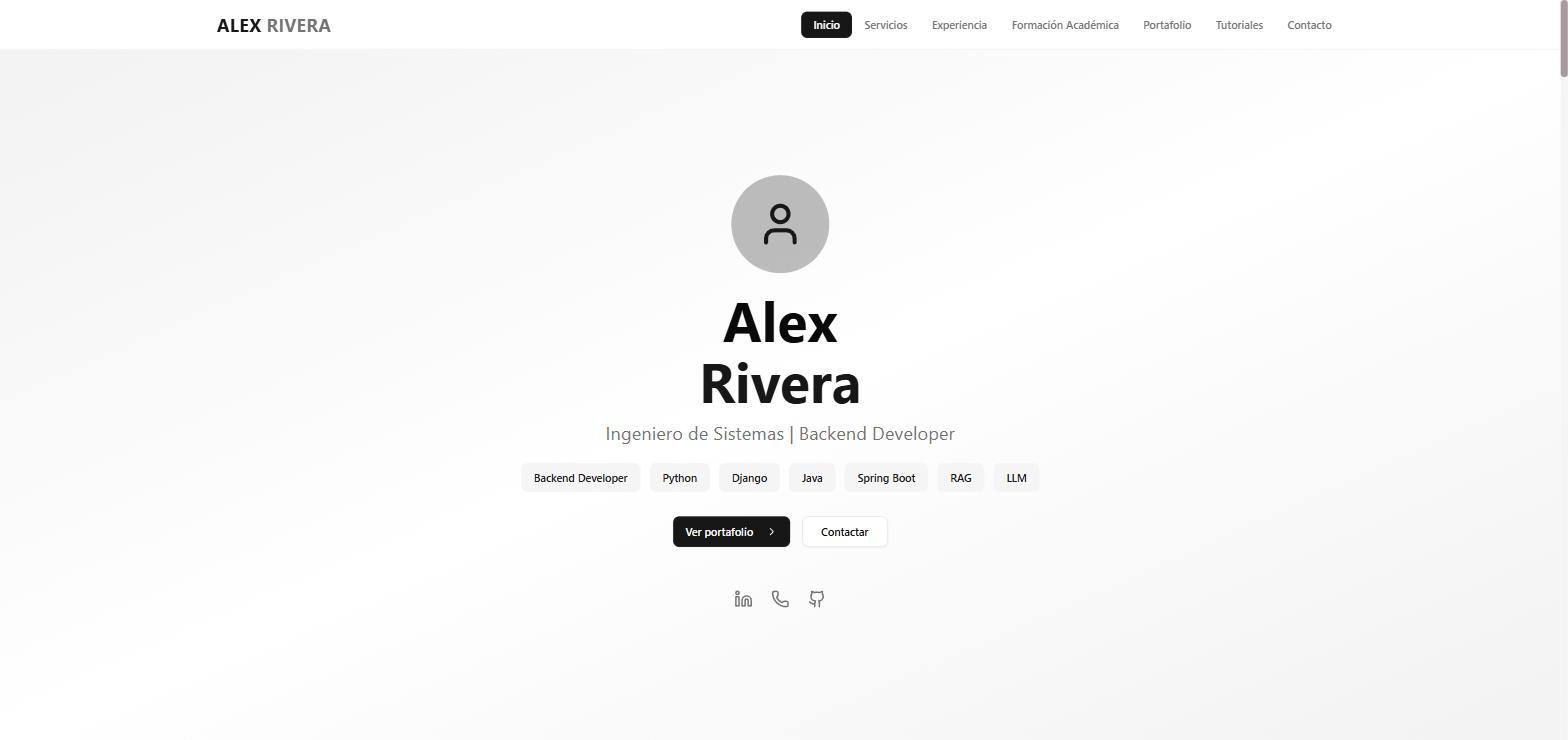
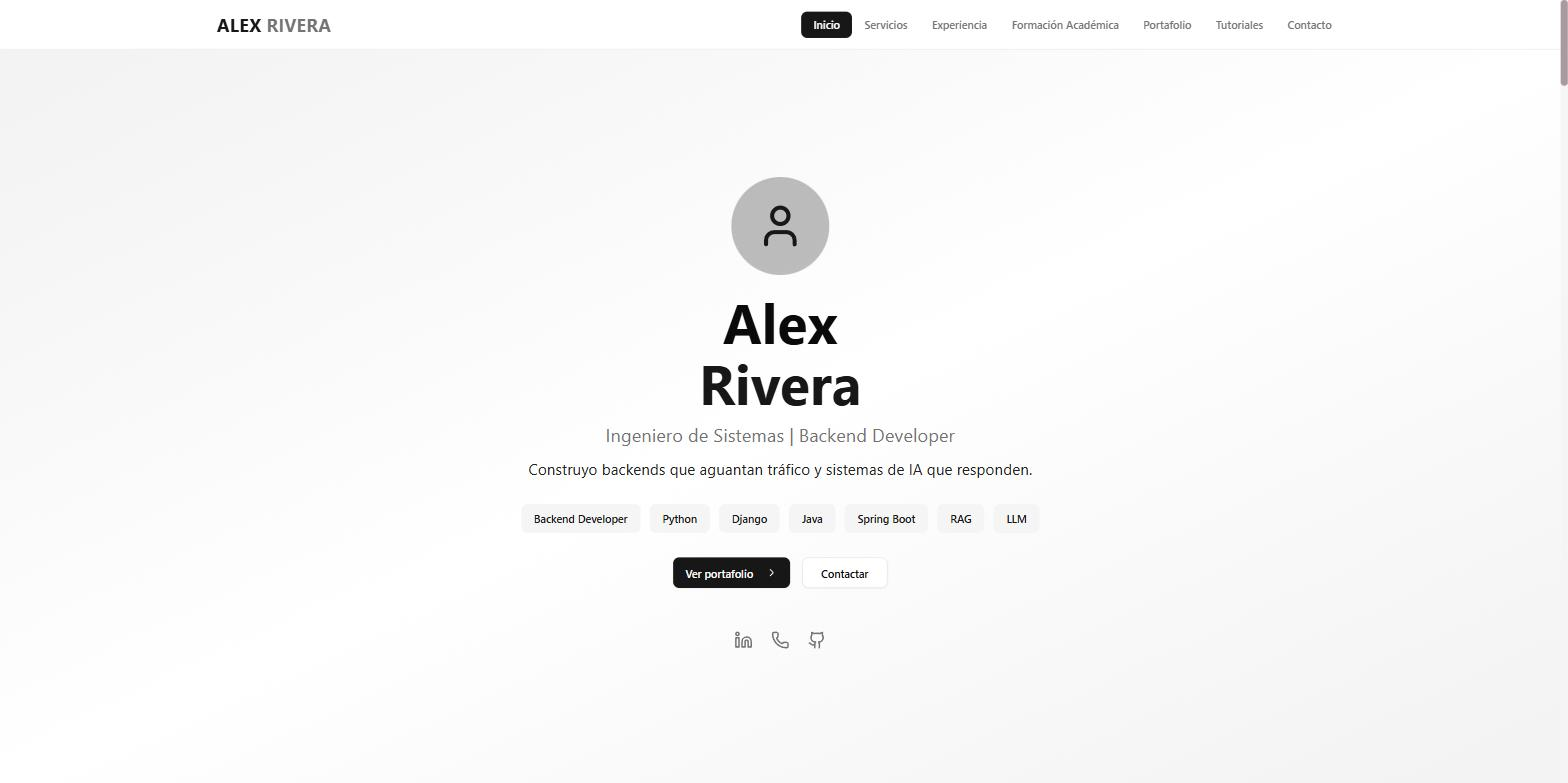
fix: pintar el headline, limpiar scripts que no aplican y añadir licencia MIT
Los tres hallazgos de código que dejó fuera la revisión de documentación, más
la licencia.

- `Profile.headline` estaba en el esquema y en el seed desde el PR #23, pero
  `grep headline src/` daba cero: no se renderizaba en ninguna parte. El hero lo
  pinta ahora bajo el cargo, que es para lo que se añadió ("titular del hero:
  frase con verbo, no el cargo", según el propio comentario del esquema). El
  perfil de reserva también lo trae, para que la home sin base de datos no
  pierda el titular. Se rehace la captura de portada del README, que ya no
  coincidía.
- `package.json` exponía `db:migrate` y `db:reset` sin que exista
  `prisma/migrations/`: el proyecto usa `db push`. `db:reset` además dropea la
  base entera, y aquí la base es compartida. Se eliminan los dos.
- `start` usaba `NODE_ENV=production bun ...`, sintaxis POSIX que falla en
  PowerShell, y arrancaba un build standalone que nadie ejecuta: el despliegue
  es Vercel. Se elimina el script y `output: "standalone"` de next.config, que
  solo sirve para self-hosting. `next start` queda funcionando sin el aviso de
  incompatibilidad.
- `dev:log` era un duplicado exacto de `dev` con un nombre que promete algo que
  no hace.
- LICENSE MIT, a nombre del usuario de GitHub para no reintroducir el nombre
  real en el repositorio, y la sección del README apuntando al archivo.

diff --git a/src/components/portafolio/HeroSection.tsx b/src/components/portafolio/HeroSection.tsx
@@ -16,6 +16,7 @@ const socialLinkClass =
 export function HeroSection({ profile }: HeroSectionProps) {
   const firstName = profile?.firstName ?? FALLBACK_PROFILE.firstName;
   const lastName = profile?.lastName ?? FALLBACK_PROFILE.lastName;
+  const headline = profile?.headline?.trim();
   const whatsappLink = buildWhatsappLink(profile);
 
   return (
@@ -49,9 +50,12 @@ export function HeroSection({ profile }: HeroSectionProps) {
           {firstName}
           <span className="mt-2 block text-primary">{lastName}</span>
         </h1>
-        <p className="mb-6 text-xl text-muted-foreground sm:text-2xl">
+        <p className="mb-4 text-xl text-muted-foreground sm:text-2xl">
           {profile?.title ?? FALLBACK_PROFILE.title}
         </p>
+        {headline && (
+          <p className="mx-auto mb-8 max-w-2xl text-lg text-balance text-foreground/90 sm:text-xl">{headline}</p>
+        )}
 
         {profile && profile.techStack.length > 0 && (
           <ul className="mb-8 flex flex-wrap justify-center gap-3" aria-label="Tecnologías principales">

diff --git a/src/lib/profile-fallback.ts b/src/lib/profile-fallback.ts
@@ -11,6 +11,8 @@ export const FALLBACK_PROFILE = {
   lastName: "Rivera",
   /** Titular bajo el nombre, en el hero. */
   title: "Ingeniero de Software | Full Stack Developer",
+  /** Frase con verbo, bajo el titular: qué haces, no cómo te llamas el cargo. */
+  headline: "Construyo backends que aguantan tráfico y sistemas de IA que responden.",
   /** Cargo corto, en la tarjeta de "Sobre mí". */
   titleProfile: "Ingeniero de Sistemas",
   /** Descripción de una línea, en el pie. */

diff --git a/next.config.ts b/next.config.ts
@@ -1,7 +1,6 @@
 import type { NextConfig } from "next";
 
 const nextConfig: NextConfig = {
-  output: "standalone",
   reactStrictMode: true,
   images: {
     formats: ["image/avif", "image/webp"],

diff --git a/README.md b/README.md
@@ -149,4 +149,4 @@ Los pasos detallados —crear el proyecto en Supabase, las dos URLs de conexión
 
 ## Licencia
 
-Este repositorio se publica como proyecto de referencia. El contenido de ejemplo es ficticio y puede reutilizarse libremente; si vas a partir de él para tu propio portafolio, cambia los datos del seed y las variables de entorno de identidad.
+[MIT](LICENSE). Si partes de este repositorio para tu propio portafolio, cambia los datos del seed y las variables de entorno de identidad.
